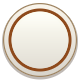
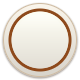
Menu: the round buttons' edge is smooth. Their shadow was a hard dark circle a pixel past the rim, under a dark edge ring, and showed as a rough grey border, thicker at the foot; it is now a soft shadow a little lower, with a fine light edge round the rim (and a soft glow when lit). Theme kit templa

Changed region(s): [[0.025, 0.025, 0.975, 1.0]]

diff --git a/src/art/skinpaint.cpp b/src/art/skinpaint.cpp
@@ -219,11 +219,15 @@ struct Painter {
             const auto ch = [k](std::uint8_t x) { return static_cast<std::uint8_t>(std::min(255.0f, x * k)); };
             return Rgba{ch(v.r), ch(v.g), ch(v.b), v.a};
         };
-        if (over) c.circle(40, 40, 39, glow);
-        c.circle(40, 41.5f, 38, shadow);
-        // The rim: the card's colour shaded top to bottom, a fine edge round it.
+        // Soft all round, the shadow a little lower: a hard dark circle a
+        // pixel past the rim, under a dark edge, showed as a rough grey
+        // border (uneven, thicker at the foot) on a tester's TV.
+        if (over) c.shadow(3, 3, 74, 74, 37, 3.0f, glow, 2.0f);
+        c.shadow(3, 4, 74, 74, 37, 2.5f, shadow, 2.0f);
+        // The rim: the card's colour shaded top to bottom, a fine light edge
+        // round it.
         c.rounded_gradient(3, 3, 74, 74, 37, shade(card, 1.0f), shade(card, 0.86f));
-        c.ring(40, 40, 37, 1.2f, edge_strong);
+        c.ring(40, 40, 37, 1.0f, Mix(edge, card, 0.35f));
         // The accent's ring, and the face inside it, light at the top.
         c.ring(40, 40, 31.5f, over ? 4.0f : 3.2f, accent);
         c.rounded_gradient(11.5f, 11.5f, 57, 57, 28.5f, shade(card, 1.04f), shade(card, 0.90f));
